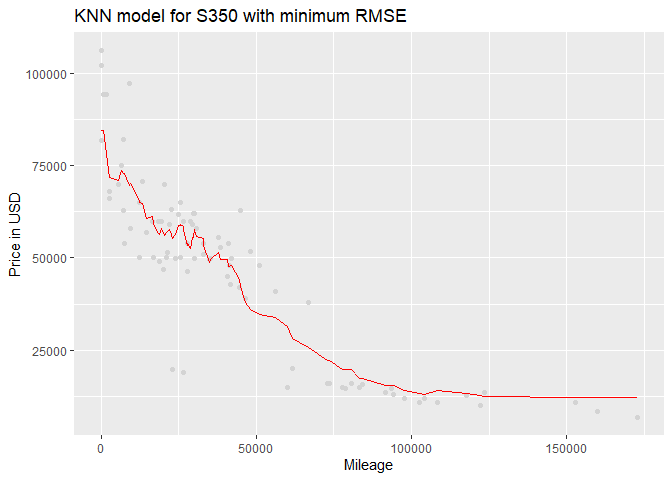
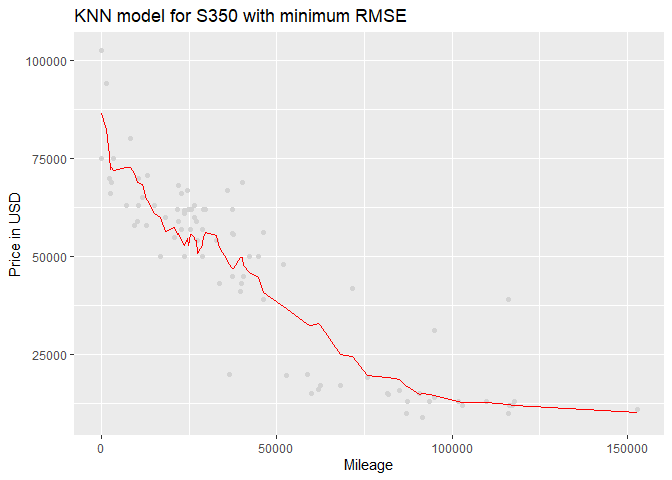
5th

diff --git a/Assignment-1.md b/Assignment-1.md
@@ -115,13 +115,13 @@ mileage.
 
 The figure 2.2. shows the series of RMSE at every value of K, the red
 line indicate the k which generate the minimum RMSE. In this case the k
-value is 16. However this value will change any time we generate a new
+value is 18. However this value will change any time we generate a new
 random sample, to decide the best k we repeated the process ten times
 and then we took the average of the minium k.
 
 ### Figure 2.3.
 
-    ## [1] 9986.78
+    ## [1] 9503.398
 
 ![](Assignment-1_files/figure-markdown_strict/unnamed-chunk-13-1.png)
 
@@ -145,7 +145,7 @@ for the S65 AMG class.
 
 The figure 2.5. shows the series of RMSE at every value of K, the red
 line indicate the k which generate the minimum RMSE. In this case the k
-value which minimize the RMSE for S65 AMG trim is 23. However this value
+value which minimize the RMSE for S65 AMG trim is 25. However this value
 will change any time we generate a new random sample, to decide the best
 k we repeated the process ten times and then we took the average of the
 minium k.
